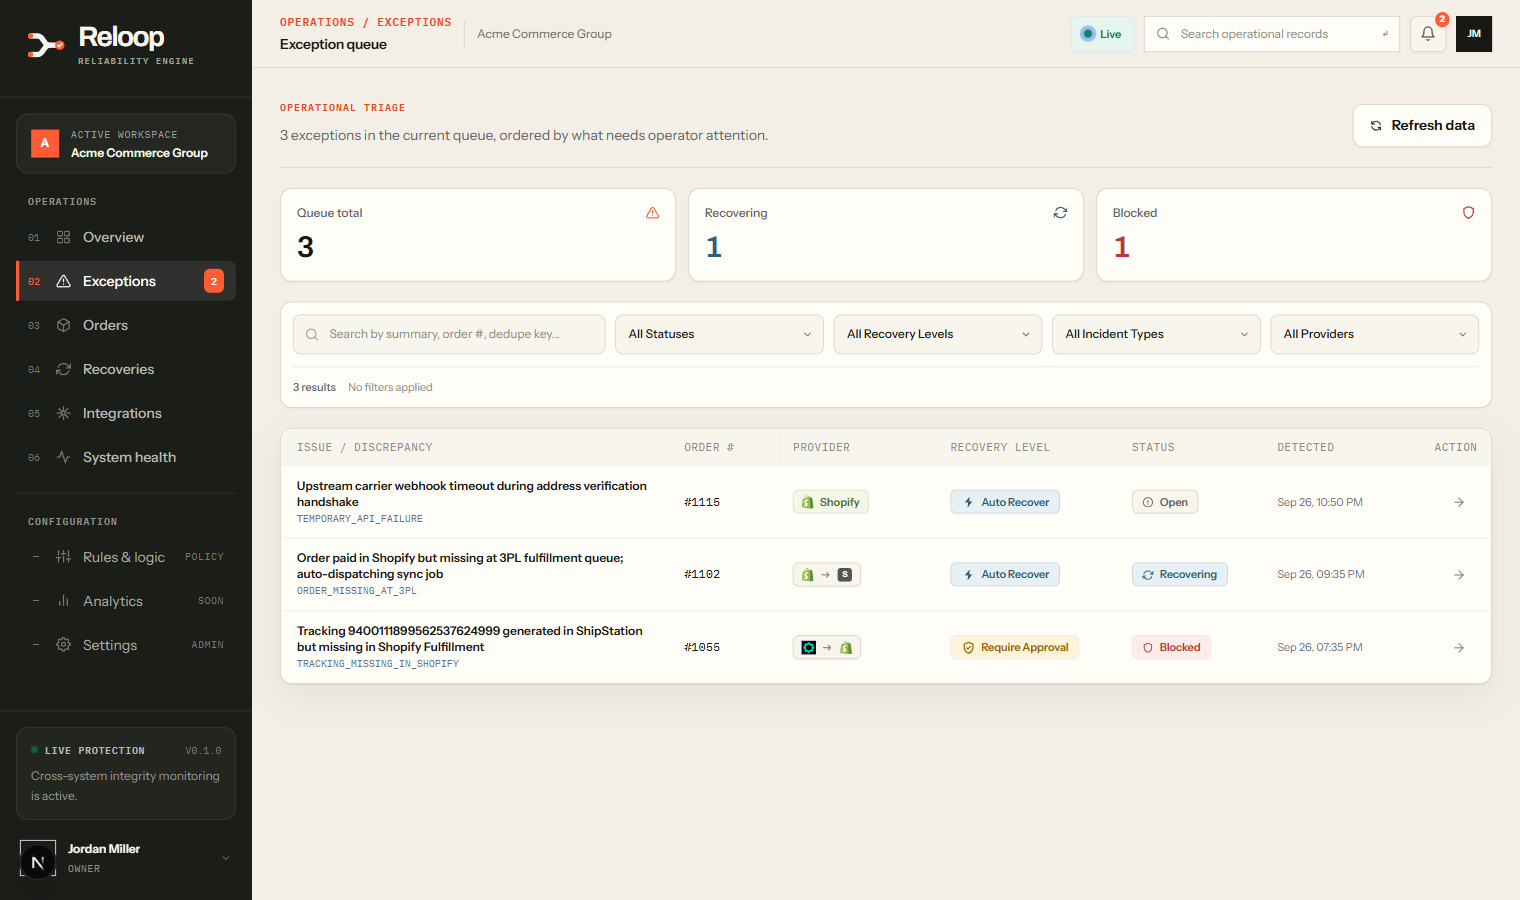
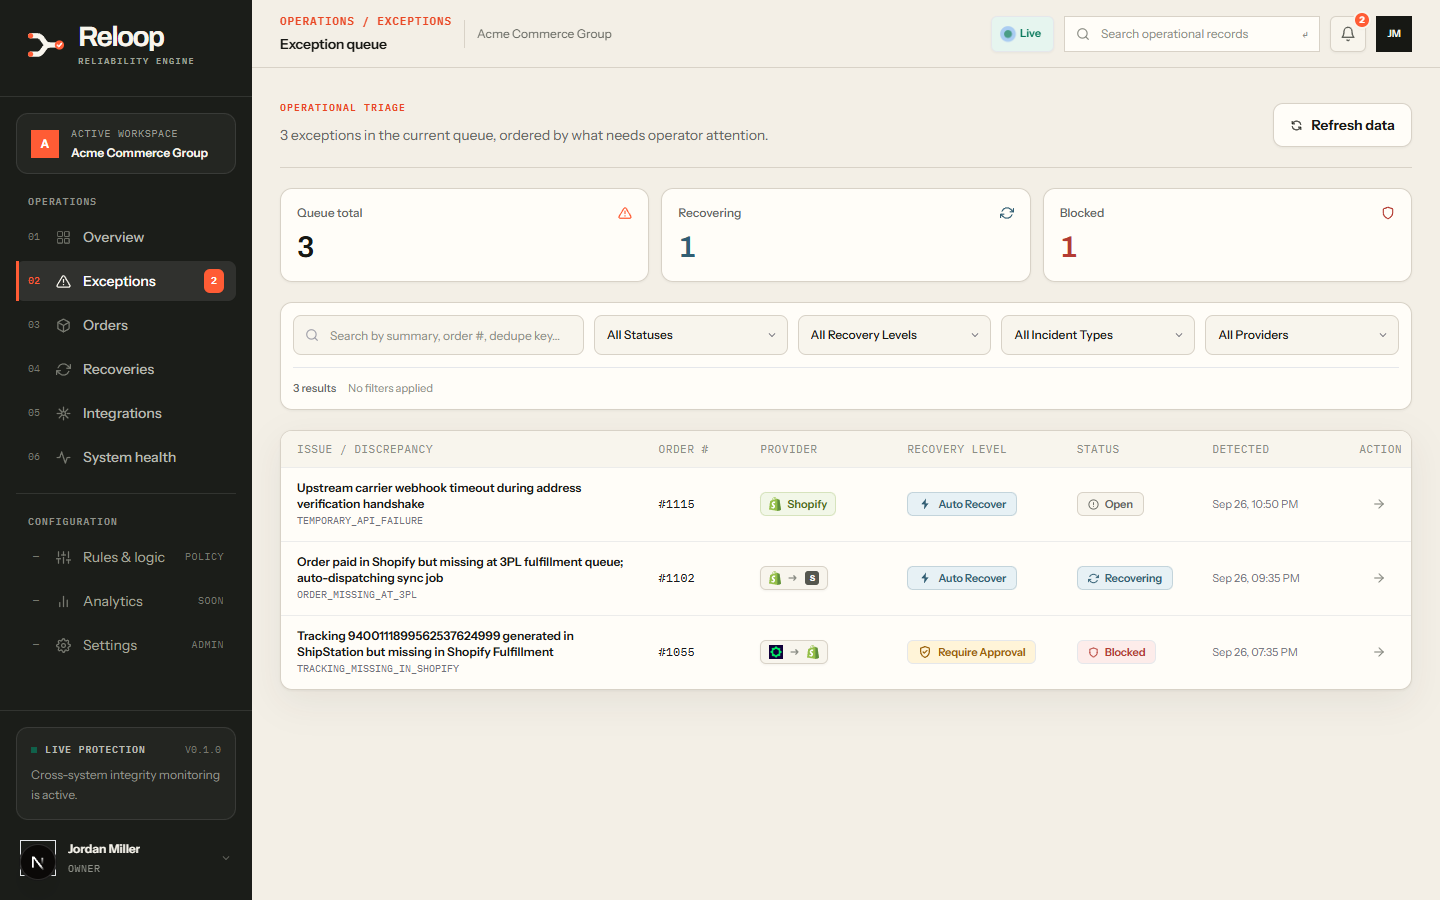
polish provider UI and refresh screenshots

diff --git a/apps/web/src/components/icons/Icons.tsx b/apps/web/src/components/icons/Icons.tsx
@@ -296,14 +296,23 @@ export function ProviderMark({ provider, size = 14 }: { provider: string; size?:
   );
 }
 
-export function ProviderIcon({ provider }: { provider: string }) {
+export function ProviderIcon({ provider, size = 'default' }: { provider: string; size?: 'default' | 'compact' | 'responsive' }) {
+  const compact = size === 'compact';
+  const responsive = size === 'responsive';
+  const baseClass = responsive
+    ? 'inline-flex h-5 items-center gap-1 whitespace-nowrap border border-transparent bg-transparent px-0 text-[10px] font-semibold leading-none sm:rounded sm:border sm:px-1.5'
+    : compact
+    ? 'inline-flex h-5 items-center gap-1 whitespace-nowrap rounded border px-1.5 text-[10px] font-semibold leading-none'
+    : 'inline-flex min-h-6 items-center gap-1.5 whitespace-nowrap rounded-md border px-2 py-1 text-[11px] font-semibold leading-none';
+  const markSize = compact || responsive ? 11 : 14;
+
   if (provider === 'SHOPIFY') {
     return (
       <span
         title="Shopify"
-        className="inline-flex min-h-6 items-center gap-1.5 whitespace-nowrap rounded-md border border-[#86a93e]/25 bg-[#f2f7e8] px-2 py-1 text-[11px] font-semibold leading-none text-[#4f6f1f]"
+        className={`${baseClass} ${responsive ? 'border-transparent bg-transparent text-[#4f6f1f] sm:border-[#86a93e]/25 sm:bg-[#f2f7e8]' : 'border-[#86a93e]/25 bg-[#f2f7e8] text-[#4f6f1f]'}`}
       >
-        <ProviderMark provider={provider} />
+        <ProviderMark provider={provider} size={markSize} />
         Shopify
       </span>
     );
@@ -312,9 +321,9 @@ export function ProviderIcon({ provider }: { provider: string }) {
     return (
       <span
         title="ShipStation"
-        className="inline-flex min-h-6 items-center gap-1.5 whitespace-nowrap rounded-md border border-[#1d71b8]/20 bg-[#edf5fb] px-2 py-1 text-[11px] font-semibold leading-none text-[#185d96]"
+        className={`${baseClass} ${responsive ? 'border-transparent bg-transparent text-[#185d96] sm:border-[#1d71b8]/20 sm:bg-[#edf5fb]' : 'border-[#1d71b8]/20 bg-[#edf5fb] text-[#185d96]'}`}
       >
-        <ProviderMark provider={provider} />
+        <ProviderMark provider={provider} size={markSize} />
         ShipStation
       </span>
     );
@@ -324,9 +333,9 @@ export function ProviderIcon({ provider }: { provider: string }) {
     return (
       <span
         title="Test simulator"
-        className="inline-flex min-h-6 items-center gap-1.5 whitespace-nowrap rounded-md border border-[#c9c7bf] bg-[#f3f2ee] px-2 py-1 text-[11px] font-semibold leading-none text-[#55574f]"
+        className={`${baseClass} ${responsive ? 'border-transparent bg-transparent text-[#55574f] sm:border-[#c9c7bf] sm:bg-[#f3f2ee]' : 'border-[#c9c7bf] bg-[#f3f2ee] text-[#55574f]'}`}
       >
-        <ProviderMark provider={provider} />
+        <ProviderMark provider={provider} size={markSize} />
         Test simulator
       </span>
     );
@@ -336,7 +345,7 @@ export function ProviderIcon({ provider }: { provider: string }) {
   return (
     <span
       title={displayName}
-      className="inline-flex min-h-6 items-center gap-1.5 whitespace-nowrap rounded-md border border-zinc-200 bg-zinc-100 px-2 py-1 text-[11px] font-semibold leading-none text-zinc-600"
+      className={`${baseClass} ${responsive ? 'border-transparent bg-transparent text-zinc-600 sm:border-zinc-200 sm:bg-zinc-100' : 'border-zinc-200 bg-zinc-100 text-zinc-600'}`}
     >
       <span aria-hidden="true" className="h-1.5 w-1.5 rounded-full bg-zinc-400" />
       {displayName}

diff --git a/apps/web/src/components/operations/IntegrationsView.tsx b/apps/web/src/components/operations/IntegrationsView.tsx
@@ -17,6 +17,7 @@ import {
   PlusIcon,
   AlertTriangleIcon,
   CheckIcon,
+  ShieldIcon,
   XIcon,
   IntegrationsIcon,
 } from '../icons/Icons';
@@ -297,8 +298,8 @@ export const IntegrationsView: React.FC = () => {
                       {/* Provider */}
                       <td className="py-3.5 px-4 max-w-[180px] sm:max-w-none">
                         <div className="flex items-center gap-2 min-w-0">
-                          <ProviderIcon provider={item.provider} />
-                          <span className="font-semibold text-[#18181b] truncate">{item.name}</span>
+                          <ProviderIcon provider={item.provider} size="responsive" />
+                          <span className="hidden min-w-0 truncate font-semibold text-[#18181b] sm:block">{item.name}</span>
                         </div>
                       </td>
 
@@ -327,8 +328,9 @@ export const IntegrationsView: React.FC = () => {
 
                       {/* Mode: Strictly Read-Only */}
                       <td className="py-3.5 px-4 hidden lg:table-cell">
-                        <span className="px-2 py-0.5 rounded text-[10px] font-medium bg-[#f4f4f5] text-[#52525b] border border-[#e4e4e7]">
-                          Read only
+                        <span title="Read-only access" className="inline-flex h-6 items-center gap-1 whitespace-nowrap rounded-md border border-reloop-verified/20 bg-reloop-verified-soft px-2 text-[10px] font-semibold leading-none text-reloop-verified">
+                          <ShieldIcon size={11} />
+                          Read‑only
                         </span>
                       </td>
 
@@ -427,7 +429,7 @@ export const IntegrationsView: React.FC = () => {
           <div className="w-full max-w-md bg-white rounded-xl border border-[#ececeb] shadow-xl p-5 space-y-4">
             <div className="flex items-center justify-between border-b border-[#f4f4f5] pb-2">
               <div className="flex items-center gap-2">
-                <ProviderIcon provider="SHOPIFY" />
+                <ProviderIcon provider="SHOPIFY" size="compact" />
                 <h4 className="text-sm font-semibold text-[#18181b]">Connect Shopify Store</h4>
               </div>
               <button
@@ -501,7 +503,7 @@ export const IntegrationsView: React.FC = () => {
           <div className="w-full max-w-md bg-white rounded-xl border border-[#ececeb] shadow-xl p-5 space-y-4">
             <div className="flex items-center justify-between border-b border-[#f4f4f5] pb-2">
               <div className="flex items-center gap-2">
-                <ProviderIcon provider="SHIPSTATION" />
+                <ProviderIcon provider="SHIPSTATION" size="compact" />
                 <h4 className="text-sm font-semibold text-[#18181b]">Connect ShipStation Account</h4>
               </div>
               <button

diff --git a/apps/web/src/components/operations/DashboardView.tsx b/apps/web/src/components/operations/DashboardView.tsx
@@ -28,12 +28,14 @@ import {
 
 interface DashboardViewProps {
   userName: string;
+  onOpenExceptionsCountChange?: (count: number) => void;
   onInspectException?: (id: string) => void;
   onInspectWorkflow?: (id: string) => void;
 }
 
 export function DashboardView({
   userName,
+  onOpenExceptionsCountChange,
   onInspectException,
   onInspectWorkflow,
 }: DashboardViewProps) {
@@ -61,6 +63,7 @@ export function DashboardView({
         apiClient.getIntegrations().catch(() => [] as IntegrationCardDto[]),
       ]);
       setSummary(summaryRes);
+      onOpenExceptionsCountChange?.(summaryRes.openExceptionsCount);
       setIntegrations(integrationsRes);
     } catch (err: unknown) {
       const msg = err instanceof Error ? err.message : 'Failed to load dashboard data';
@@ -72,7 +75,7 @@ export function DashboardView({
     } finally {
       setLoadingSummary(false);
     }
-  }, []);
+  }, [onOpenExceptionsCountChange]);
 
   const fetchQueue = useCallback(async (filter: 'ALL' | 'WAITING_APPROVAL' | 'BLOCKED' | 'INVESTIGATING') => {
     setLoadingQueue(true);
@@ -373,7 +376,7 @@ export function DashboardView({
                         </td>
                         <td className="py-3 px-4">
                           {item.provider ? (
-                            <ProviderIcon provider={item.provider} />
+                            <ProviderIcon provider={item.provider} size="responsive" />
                           ) : (
                             <span className="text-[#a1a1aa]">—</span>
                           )}
@@ -488,7 +491,7 @@ export function DashboardView({
                       className="p-2.5 rounded-lg bg-[#fbfbfa] border border-[#ececeb] flex items-center justify-between gap-2"
                     >
                       <div className="flex items-center gap-2.5 min-w-0">
-                        <ProviderIcon provider={integ.provider} />
+                        <ProviderIcon provider={integ.provider} size="responsive" />
                         <div className="min-w-0">
                           <p className="font-medium text-xs text-[#18181b] truncate">
                             {integ.name}

diff --git a/apps/web/src/components/operations/HealthView.tsx b/apps/web/src/components/operations/HealthView.tsx
@@ -163,8 +163,7 @@ export const HealthView: React.FC = () => {
                       <tr key={item.id} className="hover:bg-[#fbfbfa]">
                         <td className="py-3 px-3 max-w-[180px] sm:max-w-none">
                           <div className="flex items-center gap-2 min-w-0">
-                            <ProviderIcon provider={item.provider} />
-                            <span className="font-semibold text-[#18181b] truncate">{item.name}</span>
+                          <ProviderIcon provider={item.provider} size="compact" />
                           </div>
                         </td>
                         <td className="py-3 px-3 font-mono text-[#52525b] hidden md:table-cell">

diff --git a/apps/web/src/components/operations/OrdersView.tsx b/apps/web/src/components/operations/OrdersView.tsx
@@ -306,9 +306,9 @@ export function OrdersView({ onInspectOrder }: OrdersViewProps) {
                         {order.currency || 'USD'} {order.totalAmount || '0.00'}
                       </td>
                       <td className="py-3 px-4">
-                        <div className="flex gap-1.5">
+                        <div className="flex min-w-0 flex-wrap gap-1">
                           {order.connectedProviders.map((p) => (
-                            <ProviderIcon key={p} provider={p} />
+                            <ProviderIcon key={p} provider={p} size="responsive" />
                           ))}
                         </div>
                       </td>
